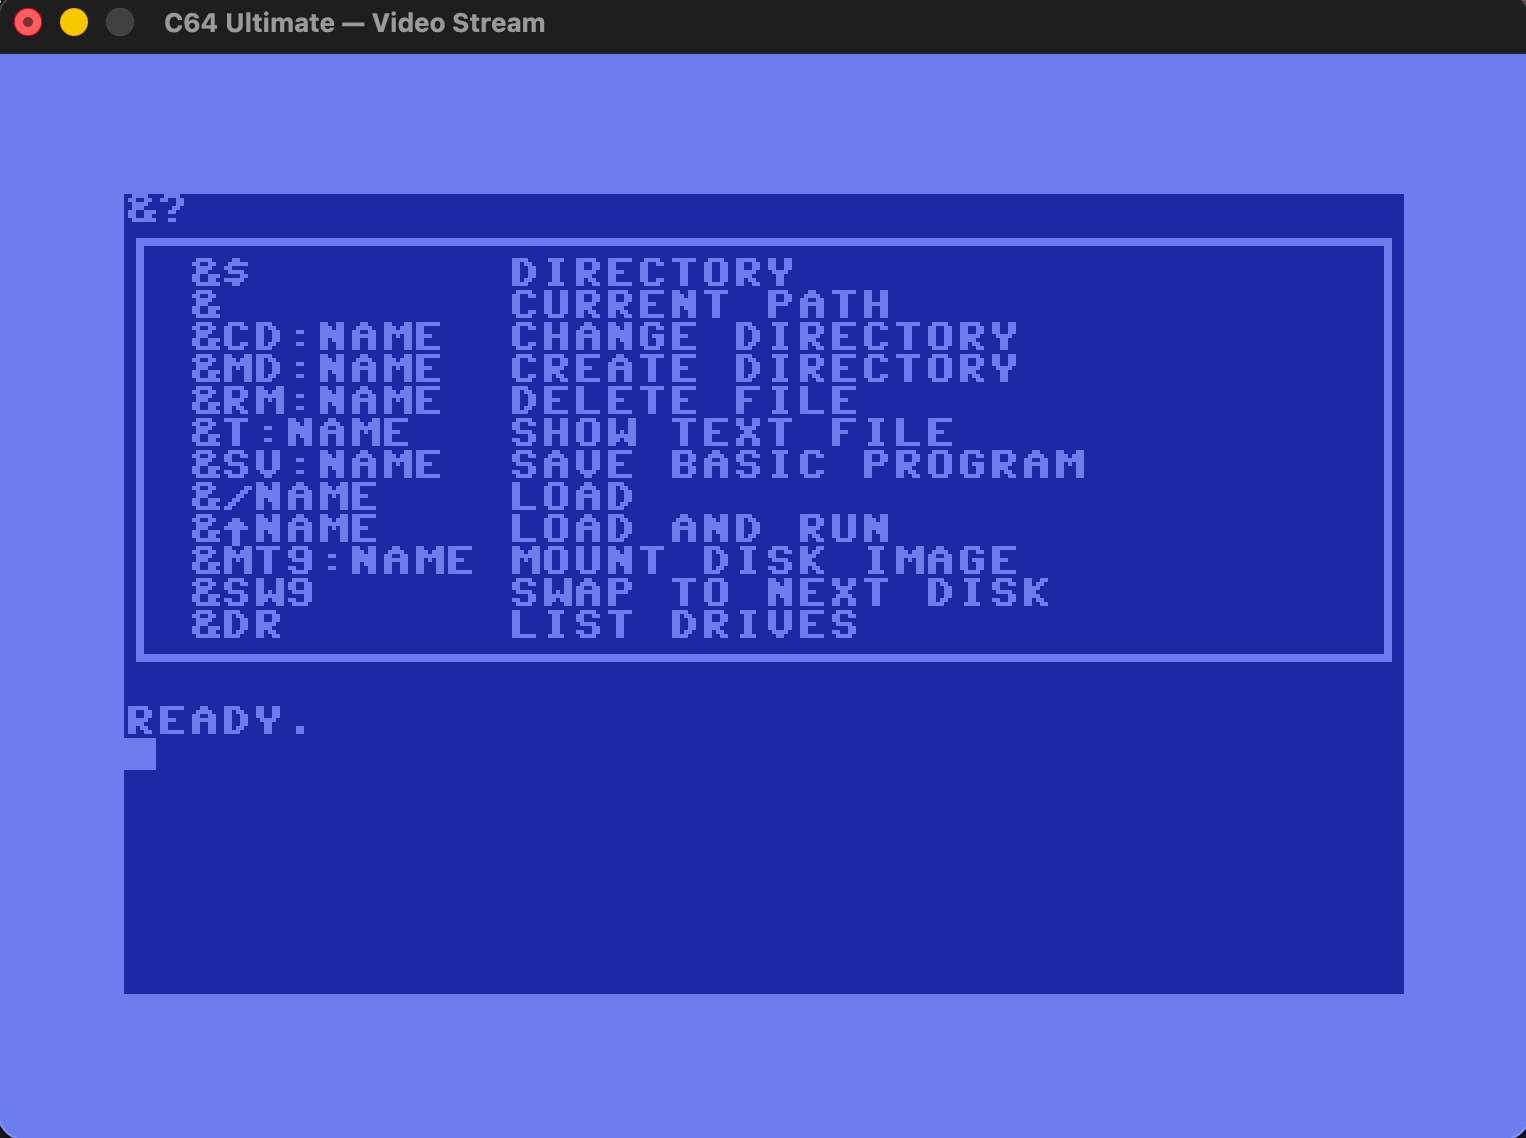
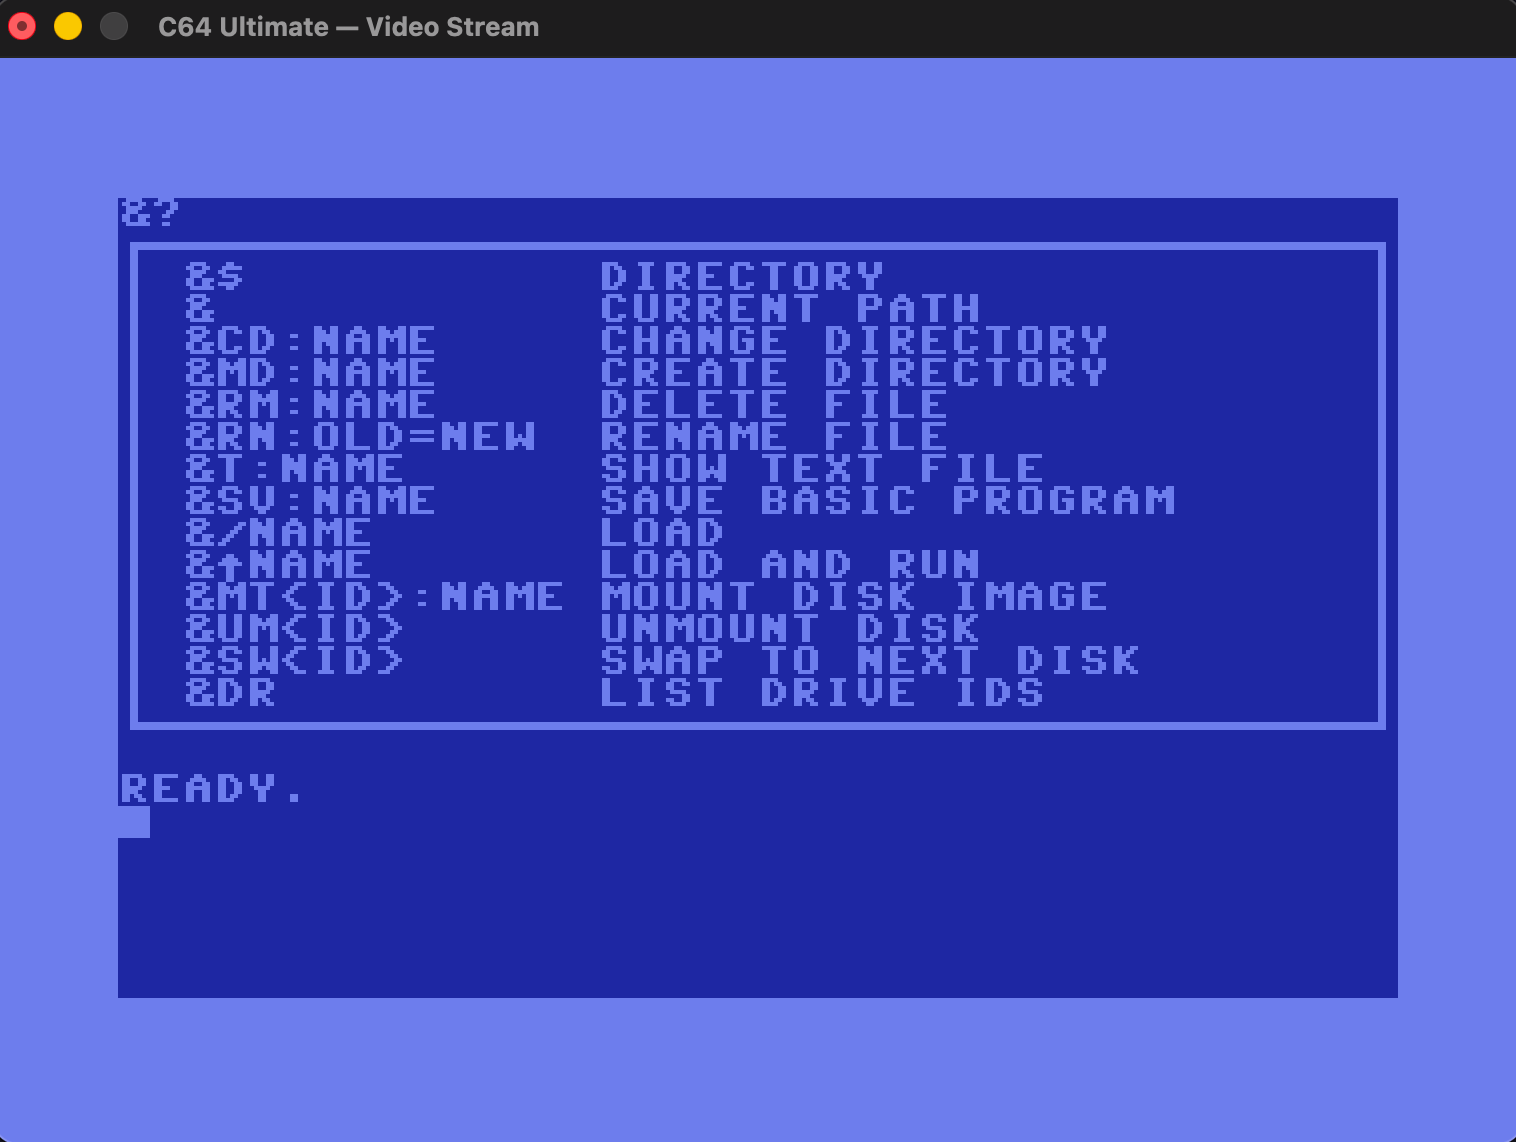
docs: refresh the wedge screenshots

Changed region(s): [[0.062, 0.1538, 0.9301, 0.8612], [0.0, 0.0, 1.0, 0.0615], [0.9921, 0.9842, 1.0, 1.0]]

diff --git a/README.md b/README.md
@@ -69,7 +69,13 @@ make -C c64/wedge run       # try it, until the next reboot
 make -C c64/wedge install   # copy it into /flash/carts
 ```
 
-`@?` prints the command table — here on a machine running JiffyDOS, where the
+The cartridge announces itself on one line above BASIC's own start-up message,
+where JiffyDOS puts its banner, and names the prefix that is live on the machine
+it just booted on:
+
+![The wedge start-up banner above the JiffyDOS and BASIC messages](docs/images/wedge-boot.png)
+
+`@?` prints the command table — here on the same JiffyDOS machine, where the
 wedge has detected it and moved itself behind `&`:
 
 ![The wedge help table on a C64 Ultimate running JiffyDOS](docs/images/wedge-help.png)
